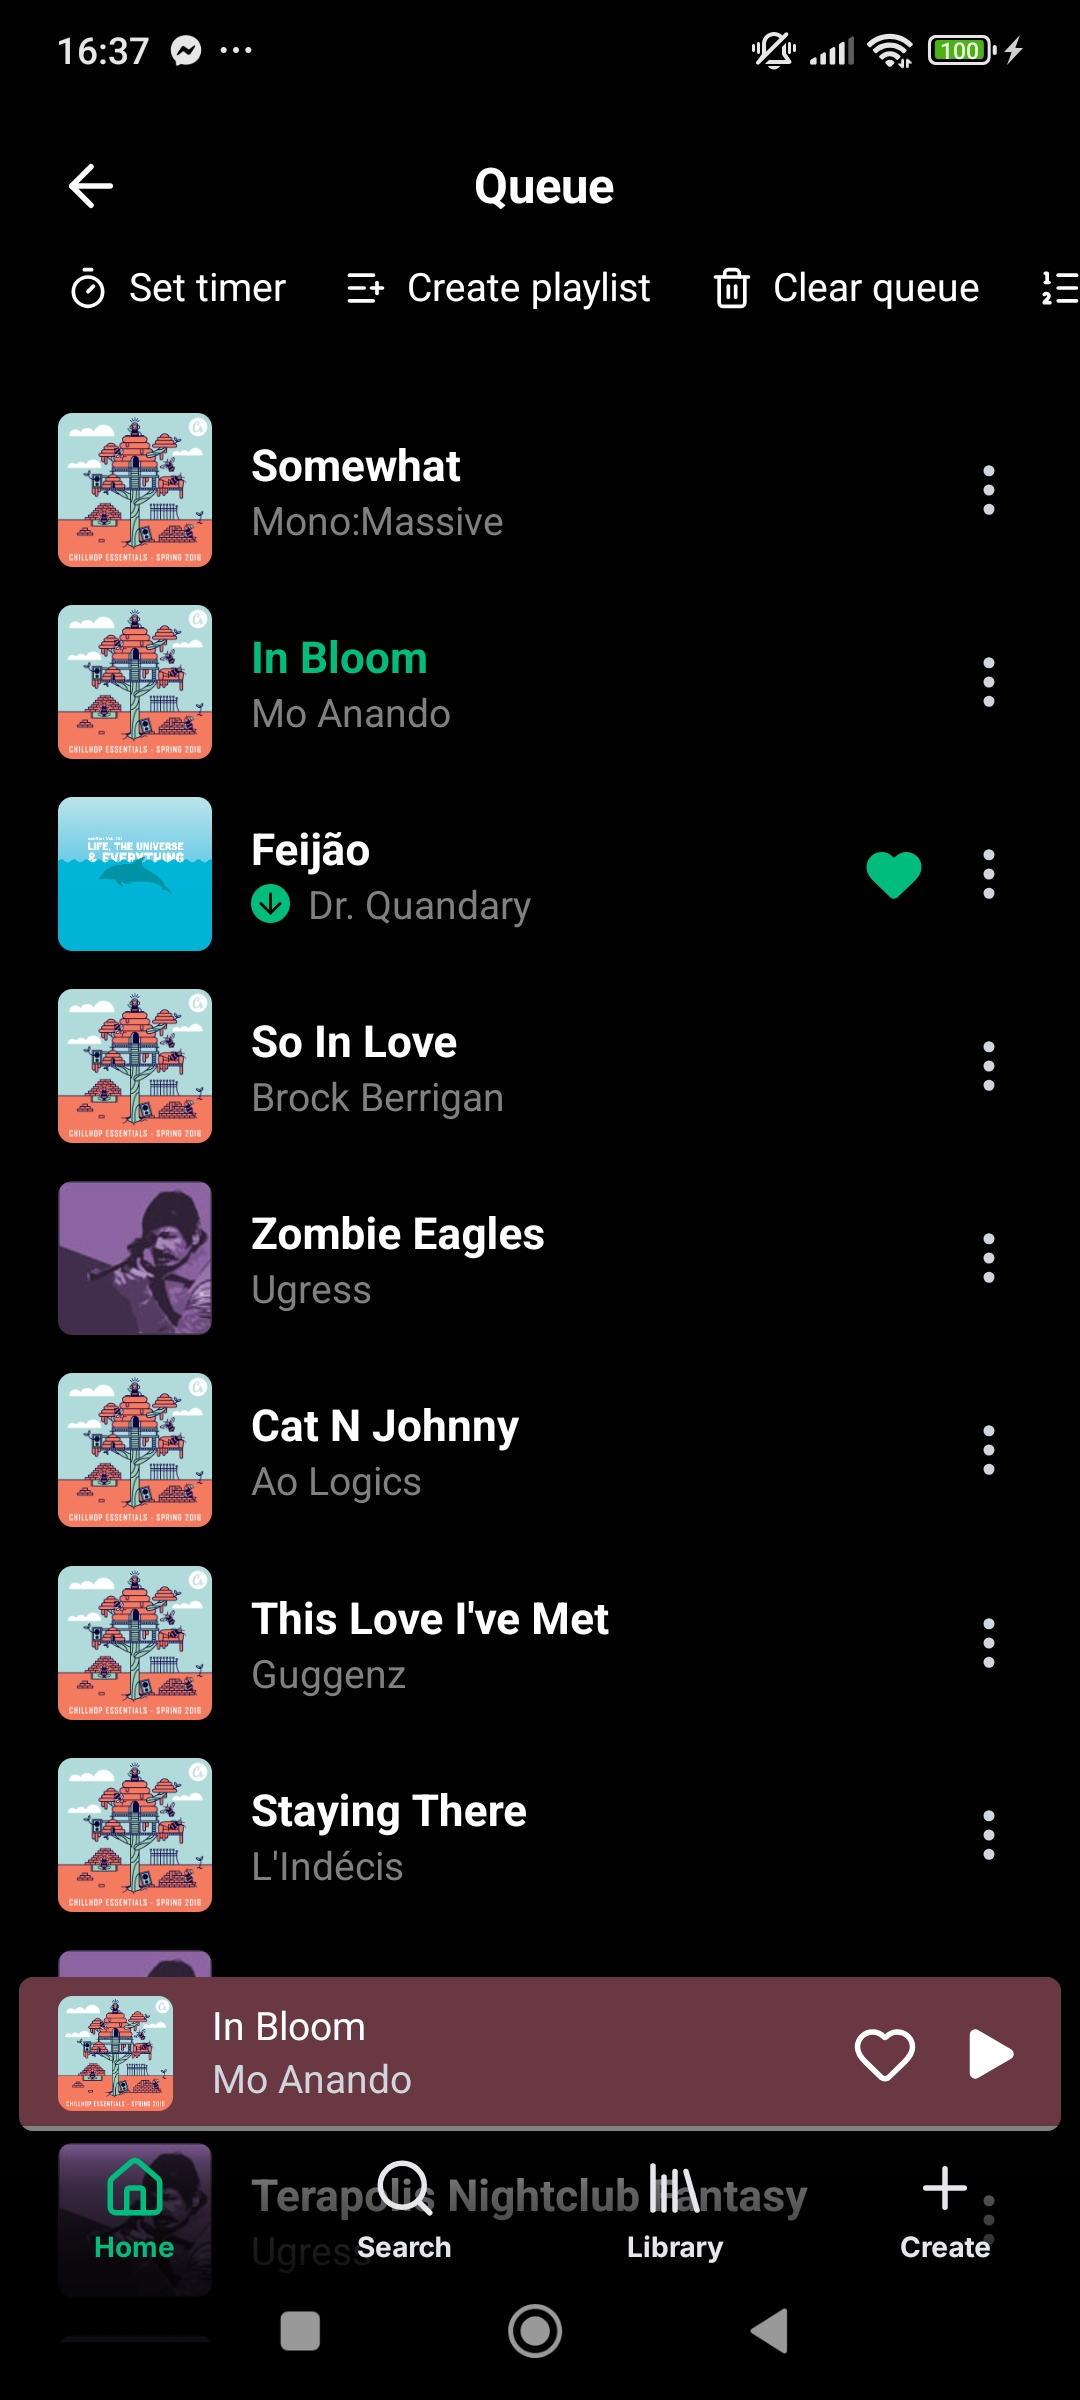
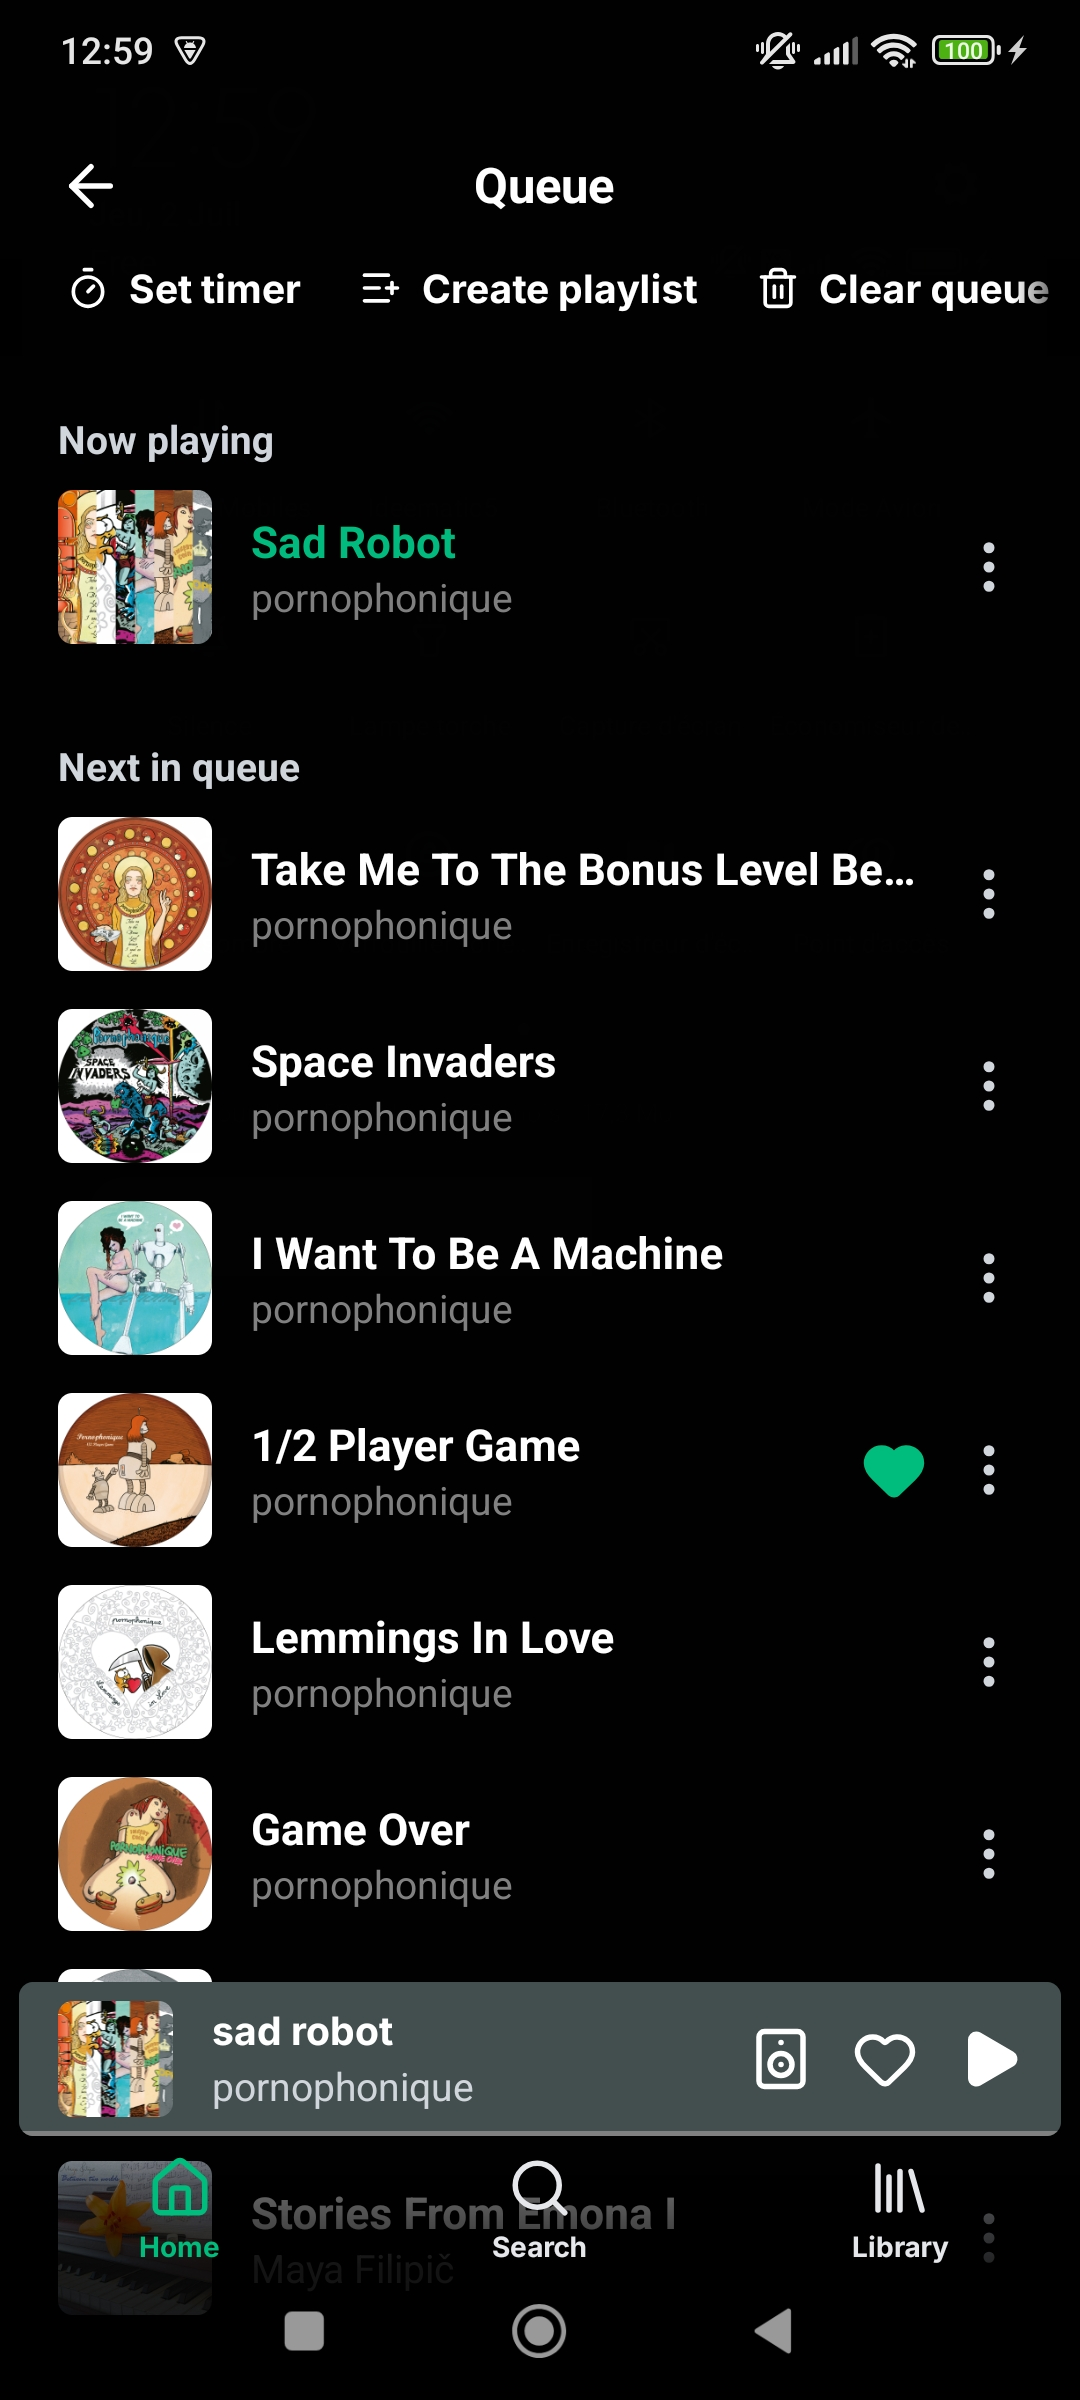
add localized screenshots for presentation website, update some screenshots

diff --git a/apps/landing/src/i18n/assets.ts b/apps/landing/src/i18n/assets.ts
@@ -7,7 +7,7 @@ import { defaultLang, type Lang } from './ui'
  * literal pattern, so add new extensions here if you introduce them.
  */
 const modules = import.meta.glob<{ default: ImageMetadata }>(
-  '../assets/*-{en,fr}.{png,jpg,jpeg,webp}',
+  '../assets/*-{en,fr,ru,zh-cn}.{png,jpg,jpeg,webp}',
   { eager: true },
 )
 